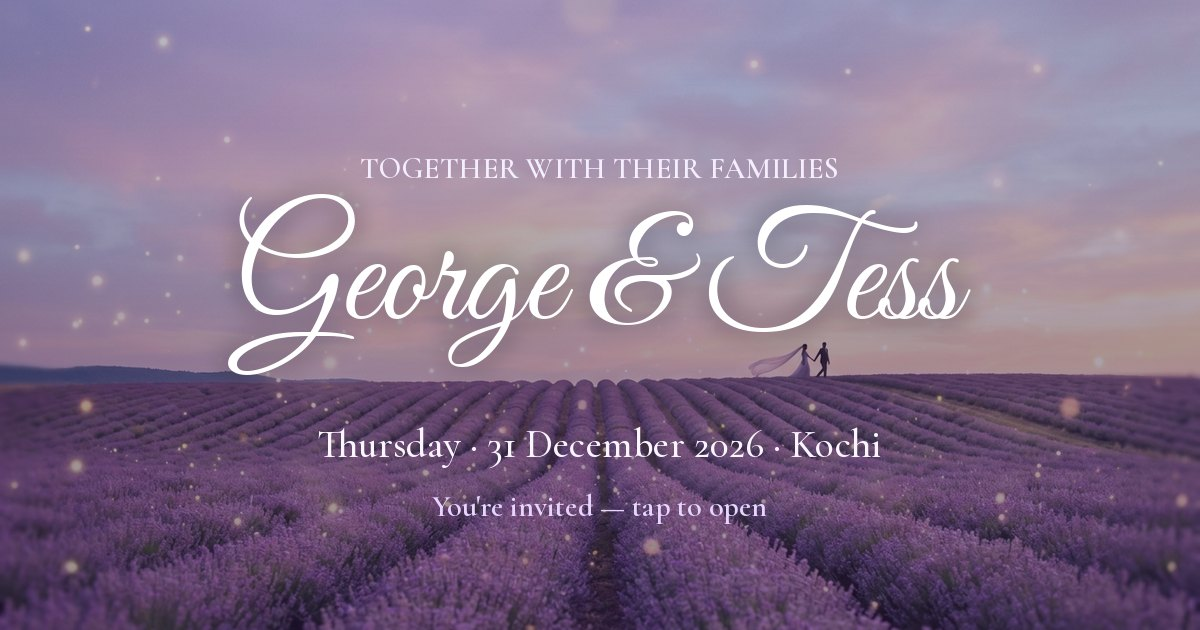
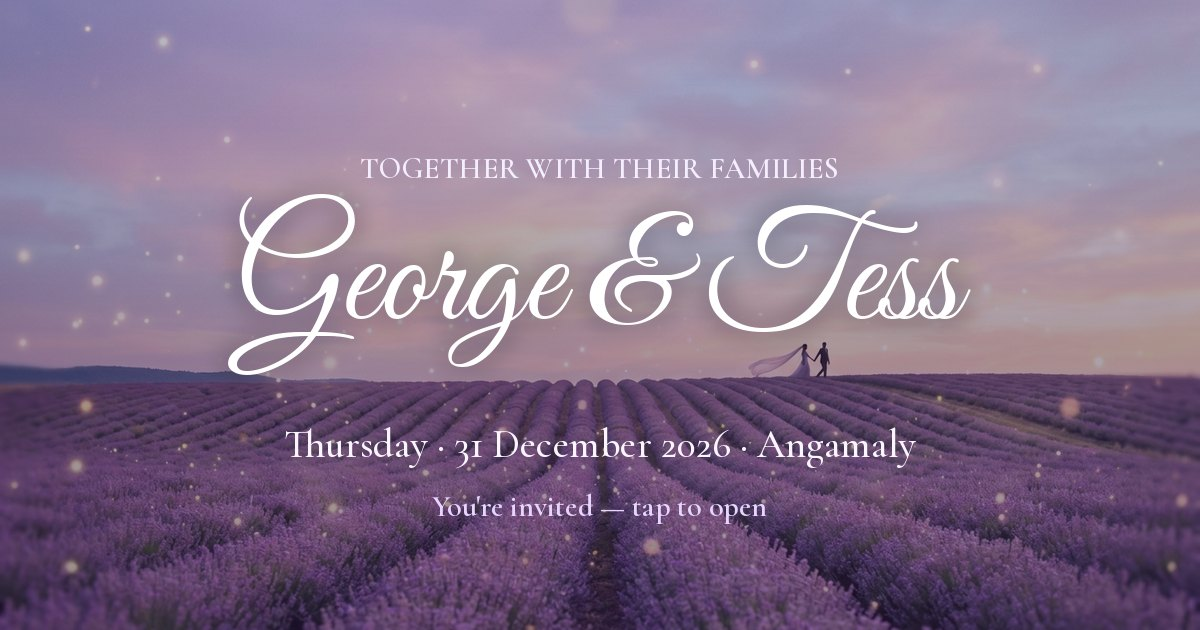
Use the couple's real venue: St. George Basilica, Angamaly
- Holy Mass at St. George Basilica and reception at its Parish Hall,
  Angamaly, Ernakulam, Kerala 683572 (maps, directions, calendar)
- RSVP deadline 15 December 2026; reception now ends 10 PM in .ics
- Order of the evening reworked for a parish-hall reception
- Social preview image and og:url point at the live Vercel domain

Claude-Session: https://claude.ai/code/session_012VdmSLghRko3AtwSaj4jGa

Changed region(s): [[0.2467, 0.6635, 0.7708, 0.754]]

diff --git a/index.html b/index.html
@@ -4,13 +4,14 @@
   <meta charset="utf-8">
   <meta name="viewport" content="width=device-width, initial-scale=1, viewport-fit=cover">
   <title>George &amp; Tess · 31 December 2026</title>
-  <meta name="description" content="Together with their families, George & Tess invite you to celebrate their wedding — Holy Mass at 4:00 PM on Thursday, 31 December 2026 in Kochi.">
+  <meta name="description" content="Together with their families, George & Tess invite you to celebrate their wedding — Holy Mass at 4:00 PM on Thursday, 31 December 2026 at St. George Basilica, Angamaly.">
   <meta name="theme-color" content="#6f55a8">
 
   <meta property="og:type" content="website">
   <meta property="og:title" content="George & Tess — You're Invited">
-  <meta property="og:description" content="Thursday · 31 December 2026 · Holy Mass at 4:00 PM · Kochi, Kerala">
-  <meta property="og:image" content="assets/img/og-image.jpg">
+  <meta property="og:description" content="Thursday · 31 December 2026 · Holy Mass at 4:00 PM · St. George Basilica, Angamaly">
+  <meta property="og:url" content="https://george-and-tess-wedding-m73p.vercel.app/">
+  <meta property="og:image" content="https://george-and-tess-wedding-m73p.vercel.app/assets/img/og-image.jpg">
   <meta property="og:image:width" content="1200">
   <meta property="og:image:height" content="630">
   <meta name="twitter:card" content="summary_large_image">
@@ -121,7 +122,7 @@
           <b>31</b>
           <span>Dec 2026</span>
         </div>
-        <p class="hero__place hero__line" style="--i:6"><span>Holy Mass at 4:00 PM</span><span class="sep" aria-hidden="true">·</span><span data-field="city">Kochi, Kerala</span></p>
+        <p class="hero__place hero__line" style="--i:6"><span>Holy Mass at 4:00 PM</span><span class="sep" aria-hidden="true">·</span><span data-field="city">Angamaly, Kerala</span></p>
       </div>
 
       <a class="scroll-cue" href="#verse" aria-label="Scroll down">
@@ -285,8 +286,8 @@
               <span class="event__icon"><svg class="ico"><use href="#i-church"/></svg></span>
               <p class="kicker" data-field="events.mass.title">Holy Mass</p>
               <p class="event__time" data-field="events.mass.timeLabel">4:00 PM</p>
-              <h3 class="event__venue" data-field="events.mass.venue">Santa Cruz Cathedral Basilica</h3>
-              <p class="event__addr" data-field="events.mass.address">K.B. Jacob Road, Fort Kochi, Kochi, Kerala 682001</p>
+              <h3 class="event__venue" data-field="events.mass.venue">St. George Basilica</h3>
+              <p class="event__addr" data-field="events.mass.address">Angamaly, Ernakulam, Kerala 683572</p>
               <p class="event__note" data-field="events.mass.note">Kindly be seated by 3:45 PM</p>
               <div class="btn-row">
                 <a class="btn btn--primary" data-directions="mass" target="_blank" rel="noopener" href="#"><svg class="ico"><use href="#i-pin"/></svg> Directions</a>
@@ -296,14 +297,14 @@
           </article>
 
           <article class="event" data-reveal="fade-up" style="--d:.15s">
-            <div class="event__media"><img src="assets/img/reception.webp" alt="Ballroom set for the reception with lavender centrepieces and chandeliers" loading="lazy" data-parallax-inner="0.12"></div>
+            <div class="event__media"><img src="assets/img/reception.webp" alt="Reception hall set with lavender centrepieces and candlelight" loading="lazy" data-parallax-inner="0.12"></div>
             <div class="event__body glass">
               <span class="event__icon"><svg class="ico"><use href="#i-glass"/></svg></span>
               <p class="kicker" data-field="events.reception.title">Wedding Reception</p>
               <p class="event__time"><span data-field="events.reception.timeLabel">6:30 PM</span> onwards</p>
-              <h3 class="event__venue" data-field="events.reception.venue">Grand Hyatt Kochi Bolgatty</h3>
-              <p class="event__addr" data-field="events.reception.address">Bolgatty Island, Mulavukad, Kochi, Kerala 682504</p>
-              <p class="event__note" data-field="events.reception.note">Dinner, dancing &amp; a New Year's Eve countdown</p>
+              <h3 class="event__venue" data-field="events.reception.venue">Parish Hall, St. George Basilica</h3>
+              <p class="event__addr" data-field="events.reception.address">Angamaly, Ernakulam, Kerala 683572</p>
+              <p class="event__note" data-field="events.reception.note">Dinner, toasts &amp; celebration with family and friends</p>
               <div class="btn-row">
                 <a class="btn btn--primary" data-directions="reception" target="_blank" rel="noopener" href="#"><svg class="ico"><use href="#i-pin"/></svg> Directions</a>
                 <button class="btn btn--ghost" type="button" data-ics="reception"><svg class="ico"><use href="#i-calendar"/></svg> Save</button>
@@ -319,10 +320,10 @@
             <li data-reveal="fade-up" style="--d:.05s"><time>3:45 PM</time><span>Guests arrive &amp; are seated</span></li>
             <li data-reveal="fade-up" style="--d:.1s"><time>4:00 PM</time><span>Holy Mass &amp; exchange of vows</span></li>
             <li data-reveal="fade-up" style="--d:.15s"><time>5:15 PM</time><span>Greetings &amp; family photographs</span></li>
-            <li data-reveal="fade-up" style="--d:.2s"><time>6:30 PM</time><span>Reception &amp; cocktails by the backwaters</span></li>
-            <li data-reveal="fade-up" style="--d:.25s"><time>7:45 PM</time><span>Toasts &amp; dinner is served</span></li>
-            <li data-reveal="fade-up" style="--d:.3s"><time>9:30 PM</time><span>First dance &amp; cake cutting</span></li>
-            <li data-reveal="fade-up" style="--d:.35s"><time>11:59 PM</time><span>New Year countdown &amp; sparkler send-off ✨</span></li>
+            <li data-reveal="fade-up" style="--d:.2s"><time>6:30 PM</time><span>Reception at the Parish Hall</span></li>
+            <li data-reveal="fade-up" style="--d:.25s"><time>7:00 PM</time><span>Toasts, first dance &amp; cake cutting</span></li>
+            <li data-reveal="fade-up" style="--d:.3s"><time>7:45 PM</time><span>Dinner is served</span></li>
+            <li data-reveal="fade-up" style="--d:.35s"><time>9:30 PM</time><span>Farewell &amp; sparkler send-off ✨</span></li>
           </ul>
         </div>
 
@@ -361,8 +362,8 @@
           </div>
           <div class="map-info">
             <div>
-              <h3 class="map-info__venue" id="map-venue">Santa Cruz Cathedral Basilica</h3>
-              <p class="map-info__addr" id="map-addr">K.B. Jacob Road, Fort Kochi, Kochi, Kerala 682001</p>
+              <h3 class="map-info__venue" id="map-venue">St. George Basilica</h3>
+              <p class="map-info__addr" id="map-addr">Angamaly, Ernakulam, Kerala 683572</p>
             </div>
             <a class="btn btn--primary" id="map-directions" target="_blank" rel="noopener" href="#"><svg class="ico"><use href="#i-pin"/></svg> Open in Maps</a>
           </div>
@@ -383,7 +384,7 @@
           <button class="shot" type="button" data-reveal="fade-up" style="--d:0.16s" data-full="assets/img/couple-arch.webp"><img src="assets/img/couple-arch.webp" alt="Under the wisteria arch" width="896" height="1200" loading="lazy"></button>
           <button class="shot" type="button" data-reveal="fade-up" data-full="assets/img/sparklers.webp"><img src="assets/img/sparklers.webp" alt="Sparkler send-off under a violet sky" width="1264" height="848" loading="lazy"></button>
           <button class="shot" type="button" data-reveal="fade-up" style="--d:0.08s" data-full="assets/img/couple-walk.webp"><img src="assets/img/couple-walk.webp" alt="Walking hand in hand to the chapel" width="896" height="1200" loading="lazy"></button>
-          <button class="shot" type="button" data-reveal="fade-up" style="--d:0.16s" data-full="assets/img/reception.webp"><img src="assets/img/reception.webp" alt="The reception ballroom aglow" width="1264" height="848" loading="lazy"></button>
+          <button class="shot" type="button" data-reveal="fade-up" style="--d:0.16s" data-full="assets/img/reception.webp"><img src="assets/img/reception.webp" alt="The reception hall aglow" width="1264" height="848" loading="lazy"></button>
           <button class="shot" type="button" data-reveal="fade-up" data-full="assets/img/lavender-field.webp"><img src="assets/img/lavender-field.webp" alt="Lavender fields at twilight" width="1376" height="768" loading="lazy"></button>
         </div>
       </div>
@@ -395,7 +396,7 @@
       <div class="rsvp__veil" aria-hidden="true"></div>
       <div class="container narrow">
         <header class="section__head section__head--light">
-          <p class="kicker" data-reveal="fade-up">Kindly reply by <span data-field="rsvp.deadlineLabel">30 November 2026</span></p>
+          <p class="kicker" data-reveal="fade-up">Kindly reply by <span data-field="rsvp.deadlineLabel">15 December 2026</span></p>
           <h2 class="script-title script-title--light" data-reveal="blur">Will you join us?</h2>
         </header>
 

diff --git a/assets/js/config.js b/assets/js/config.js
@@ -15,7 +15,7 @@ window.WEDDING = {
   // The countdown targets this moment (ISO 8601 with the venue's UTC offset).
   date: "2026-12-31T16:00:00+05:30",
   dateLabel: "Thursday, 31 December 2026",
-  city: "Kochi, Kerala",
+  city: "Angamaly, Kerala",
 
   events: {
     mass: {
@@ -23,25 +23,25 @@ window.WEDDING = {
       start: "2026-12-31T16:00:00+05:30",
       end: "2026-12-31T17:15:00+05:30",
       timeLabel: "4:00 PM",
-      venue: "Santa Cruz Cathedral Basilica",
-      address: "K.B. Jacob Road, Fort Kochi, Kochi, Kerala 682001",
-      mapQuery: "Santa Cruz Cathedral Basilica, Fort Kochi, Kerala",
+      venue: "St. George Basilica",
+      address: "Angamaly, Ernakulam, Kerala 683572",
+      mapQuery: "St. George Syro-Malabar Basilica, Angamaly, Kerala",
       note: "Kindly be seated by 3:45 PM",
     },
     reception: {
       title: "Wedding Reception",
       start: "2026-12-31T18:30:00+05:30",
-      end: "2027-01-01T00:30:00+05:30",
+      end: "2026-12-31T22:00:00+05:30",
       timeLabel: "6:30 PM",
-      venue: "Grand Hyatt Kochi Bolgatty",
-      address: "Bolgatty Island, Mulavukad, Kochi, Kerala 682504",
-      mapQuery: "Grand Hyatt Kochi Bolgatty, Kerala",
-      note: "Dinner, dancing & a New Year's Eve countdown",
+      venue: "Parish Hall, St. George Basilica",
+      address: "Angamaly, Ernakulam, Kerala 683572",
+      mapQuery: "St. George Syro-Malabar Basilica, Angamaly, Kerala",
+      note: "Dinner, toasts & celebration with family and friends",
     },
   },
 
   rsvp: {
-    deadlineLabel: "30 November 2026",
+    deadlineLabel: "15 December 2026",
     /*
      * Where RSVPs go — the first one that is set is used:
      *  1. endpoint: a Google Apps Script web-app URL (see README) or a

diff --git a/README.md b/README.md
@@ -1,7 +1,7 @@
 # George & Tess — Wedding Invitation 💜
 
 A dreamy, classic western wedding invitation website in lavender & glass.
-Thursday, **31 December 2026** · Holy Mass at **4:00 PM** · Reception from **6:30 PM** · Kochi, Kerala.
+Thursday, **31 December 2026** · Holy Mass at **4:00 PM** · Reception from **6:30 PM** · St. George Basilica, Angamaly, Kerala.
 
 It is a static site (plain HTML, CSS and JavaScript with no build step), so you can host it anywhere.
 
@@ -28,8 +28,8 @@ Most details live in **`assets/js/config.js`**: names, date, venues, times, the 
 Elements tagged `data-field="…"` in `index.html` are filled from it automatically.
 Longer text (the love story, bios, order of the evening, dress code) is written directly in `index.html`.
 
-> The venues, story and timings were filled in as tasteful placeholders. Please check them before sending:
-> Santa Cruz Cathedral Basilica (Holy Mass, 4:00 PM) and Grand Hyatt Kochi Bolgatty (Reception, 6:30 PM).
+> Venues come from the couple's earlier invitation: St. George Basilica, Angamaly (Holy Mass, 4:00 PM) and the Parish Hall
+> (Reception, 6:30 PM — please confirm this time). The love story, bios and order of the evening are placeholders to personalise.
 
 ### Make RSVPs reach you
 
